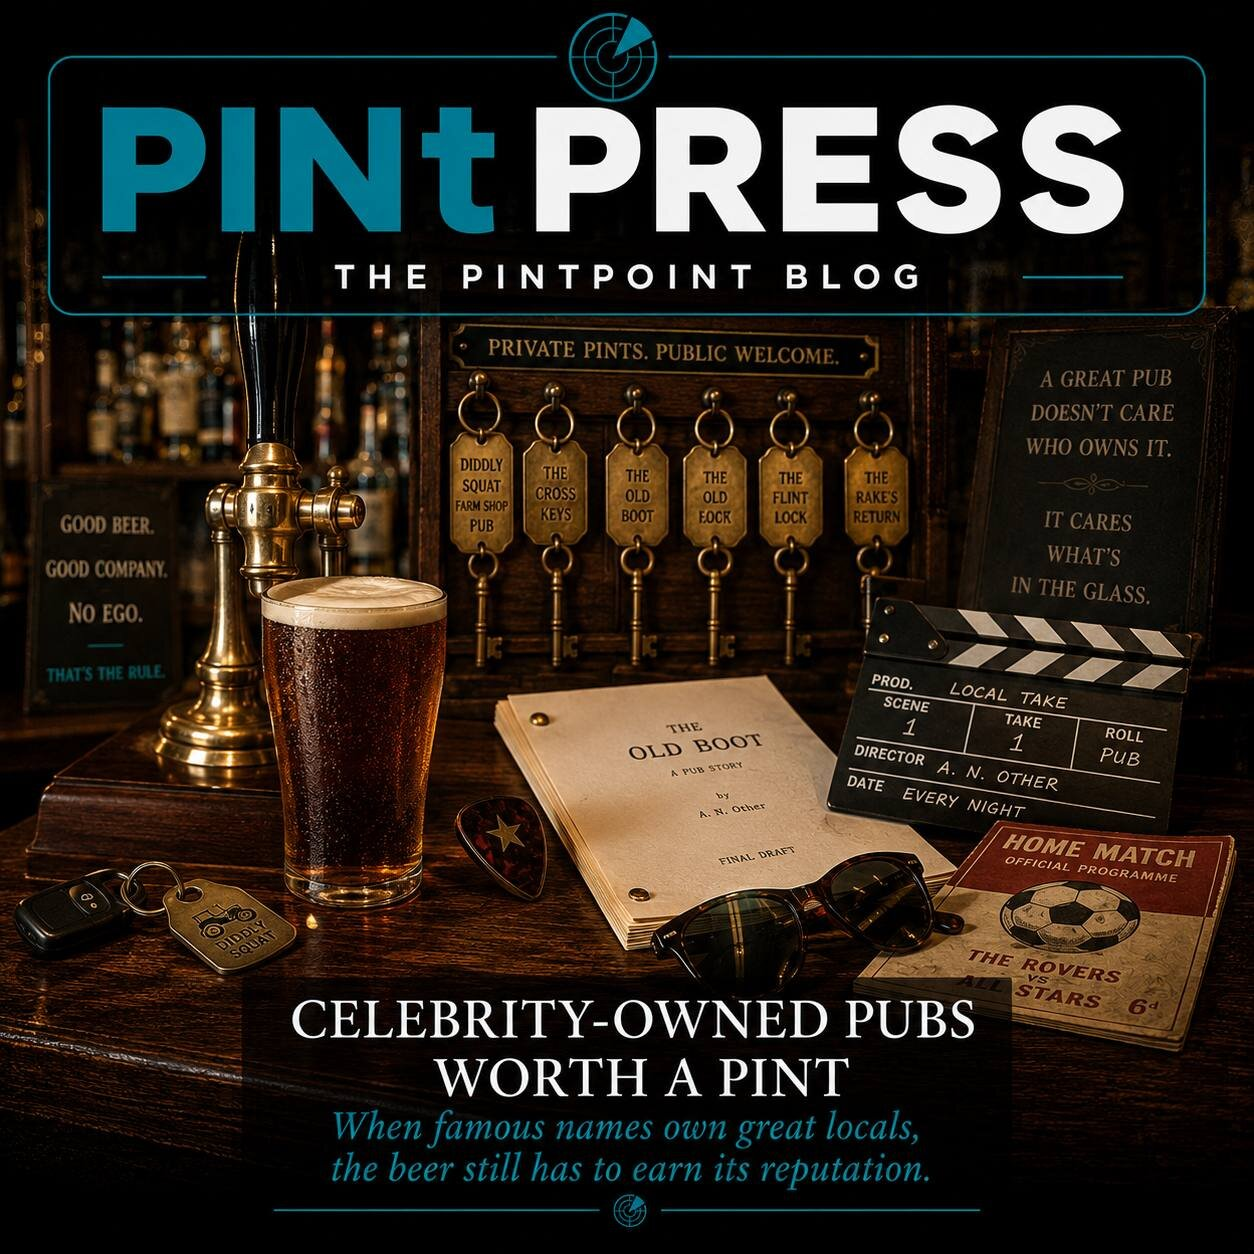
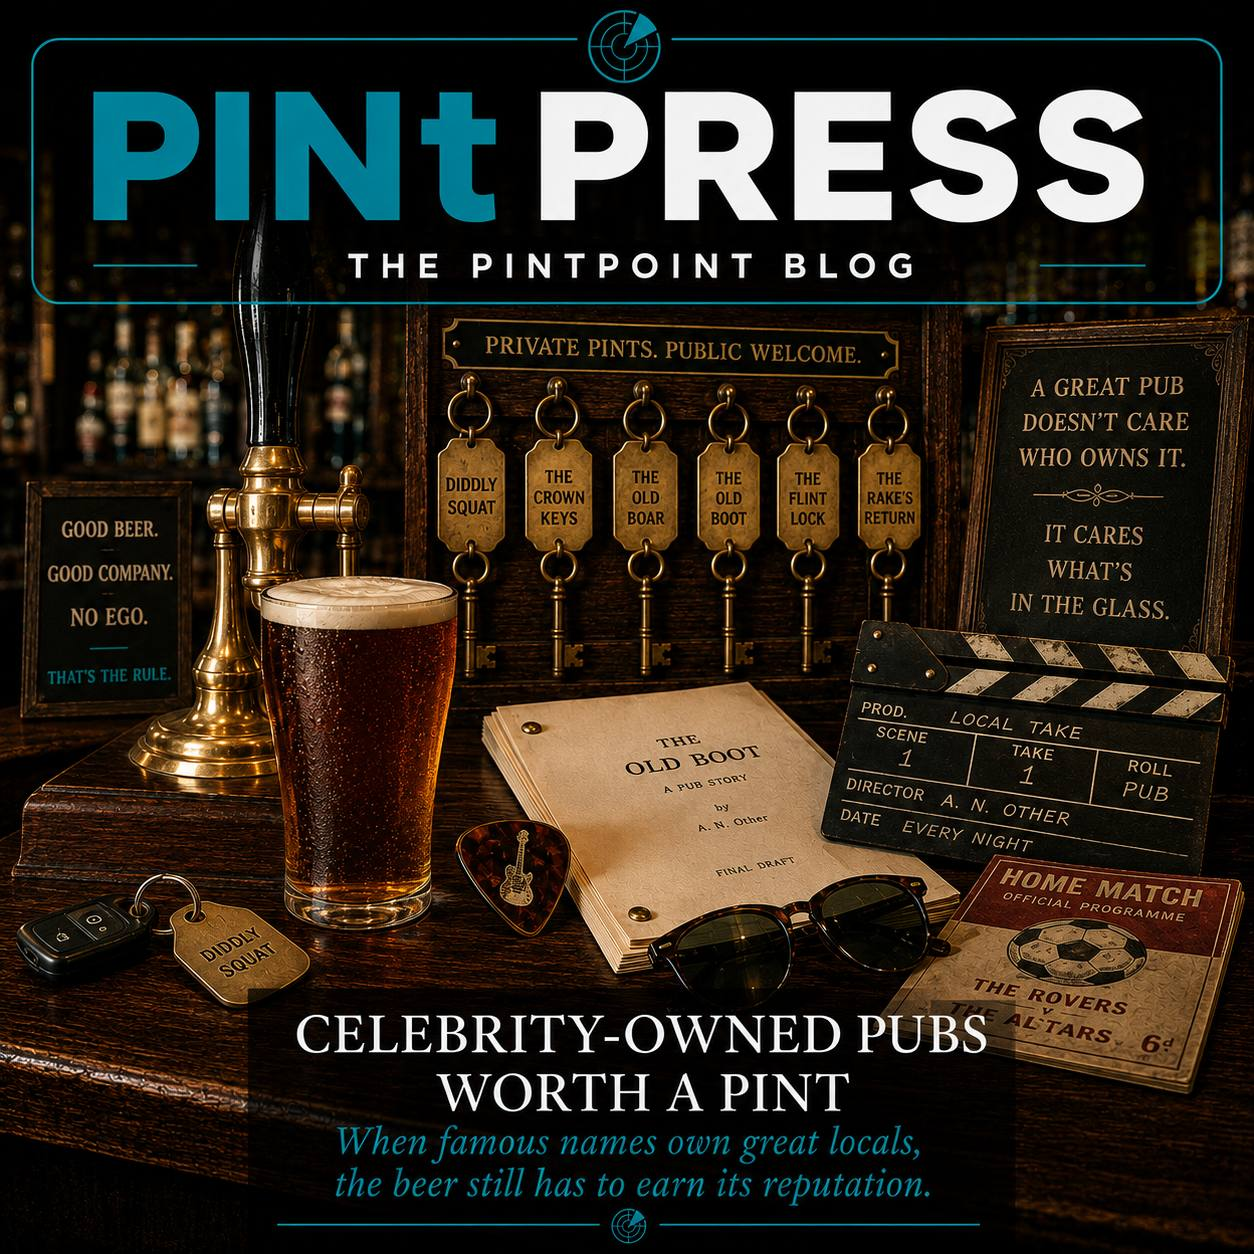
Update celebrity pubs header image

diff --git a/blog/celeb-owned-pubs-worth-a-pint.html b/blog/celeb-owned-pubs-worth-a-pint.html
@@ -23,8 +23,8 @@
   <meta property="og:url" content="https://pintpoint.co.uk/blog/celeb-owned-pubs-worth-a-pint.html" />
   <meta property="og:title" content="Celebrity-Owned Pubs Worth the Pint (Not Just the Autograph)" />
   <meta property="og:description" content="Britain's celebrity-owned pubs, sorted by whether the pub would be worth a pint before you knew who owned it." />
-  <meta property="og:image" content="https://pintpoint.co.uk/blog/images/celeb-owned-pubs-worth-a-pint.jpg?v=1" />
-  <meta property="og:image:alt" content="A chalkboard-style illustration of celebrity-owned British pubs — dartboards, hand-pumps, thatched roofs and pump clips." />
+  <meta property="og:image" content="https://pintpoint.co.uk/blog/images/celeb-owned-pubs-worth-a-pint.jpg?v=2" />
+  <meta property="og:image:alt" content="PINtPRESS cover art for Celebrity-Owned Pubs Worth the Pint: a moody pub bar tableau with a pint, brass tap, celebrity-adjacent props and a sign reading A great pub does not care who owns it." />
   <meta name="twitter:card" content="summary_large_image" />
   <link rel="preconnect" href="https://fonts.googleapis.com" />
   <link href="https://fonts.googleapis.com/css2?family=Inter:wght@400;500;600;700;800;900&display=swap" rel="stylesheet" />
@@ -39,7 +39,7 @@
     "datePublished": "2026-07-29",
     "dateModified": "2026-07-29",
     "url": "https://pintpoint.co.uk/blog/celeb-owned-pubs-worth-a-pint.html",
-    "image": "https://pintpoint.co.uk/blog/images/celeb-owned-pubs-worth-a-pint.jpg?v=1",
+    "image": "https://pintpoint.co.uk/blog/images/celeb-owned-pubs-worth-a-pint.jpg?v=2",
     "mainEntityOfPage": "https://pintpoint.co.uk/blog/celeb-owned-pubs-worth-a-pint.html",
     "speakable": {
       "@type": "SpeakableSpecification",
@@ -147,10 +147,10 @@
     <p class="meta"><span class="category essay">Essay</span>29 July 2026 · By Sophie Ro</p>
     <h1>Celebrity-Owned Pubs <em>Worth the Pint (Not Just the Autograph)</em></h1>
 
-    <figure class="hero" aria-label="PINtPRESS cover: a moody pub bar in low golden light. A pint of dark ale sits centre-frame beside a set of hanging brass keyring tags labelled DIDDLY SQUAT FARM SHOP PUB, THE CROSS KEYS, THE OLD BOOT, THE OLD LOCK, THE FLINT LOCK and THE RAKE'S RETURN. Behind them a wooden sign reads PRIVATE PINTS. PUBLIC WELCOME. To the left a chalkboard: GOOD BEER. GOOD COMPANY. NO EGO. THAT'S THE RULE. To the right: A GREAT PUB DOESN'T CARE WHO OWNS IT. IT CARES WHAT'S IN THE GLASS. In the foreground: a film clapperboard reading LOCAL TAKE — Director A. N. Other — Date Every Night, a bound script The Old Boot: A Pub Story by A. N. Other, a Diddly Squat car-key tag, a guitar pick, sunglasses, and a matchday programme The Rovers vs All Stars.">
+    <figure class="hero" aria-label="PINtPRESS cover: a moody pub bar in low golden light. A pint of dark ale sits centre-frame beside a set of hanging brass keyring tags labelled DIDDLY SQUAT, THE CROWN KEYS, THE OLD BOAR, THE OLD BOOT, THE FLINT LOCK and THE RAKE'S RETURN. Behind them a wooden sign reads PRIVATE PINTS. PUBLIC WELCOME. To the left a chalkboard: GOOD BEER. GOOD COMPANY. NO EGO. THAT'S THE RULE. To the right: A GREAT PUB DOESN'T CARE WHO OWNS IT. IT CARES WHAT'S IN THE GLASS. In the foreground: a film clapperboard reading LOCAL TAKE — Director A. N. Other — Date Every Night, a bound script The Old Boot: A Pub Story by A. N. Other, a Diddly Squat car-key tag, a guitar pick, sunglasses, and a matchday programme The Rovers vs All Stars.">
       <picture>
         <source srcset="/blog/images/celeb-owned-pubs-worth-a-pint.webp" type="image/webp" />
-        <img src="/blog/images/celeb-owned-pubs-worth-a-pint.jpg?v=1" alt="PINtPRESS cover art for Celebrity-Owned Pubs Worth the Pint: a pub bar tableau with a pint of dark ale, keyring tags for fake pubs (Diddly Squat, Cross Keys, Old Boot), a film clapperboard, a script for 'The Old Boot: A Pub Story', a Diddly Squat car key, a guitar pick and sunglasses, under a sign reading A GREAT PUB DOESN'T CARE WHO OWNS IT. IT CARES WHAT'S IN THE GLASS." fetchpriority="high" width="1248" height="1248" />
+        <img src="/blog/images/celeb-owned-pubs-worth-a-pint.jpg?v=2" alt="PINtPRESS cover art for Celebrity-Owned Pubs Worth the Pint: a pub bar tableau with a pint of dark ale, keyring tags for fake pubs (Diddly Squat, Crown Keys, Old Boar, Old Boot), a film clapperboard, a script for 'The Old Boot: A Pub Story', a Diddly Squat car key, a guitar pick and sunglasses, under a sign reading A GREAT PUB DOESN'T CARE WHO OWNS IT. IT CARES WHAT'S IN THE GLASS." fetchpriority="high" width="1248" height="1248" />
       </picture>
     </figure>
 
